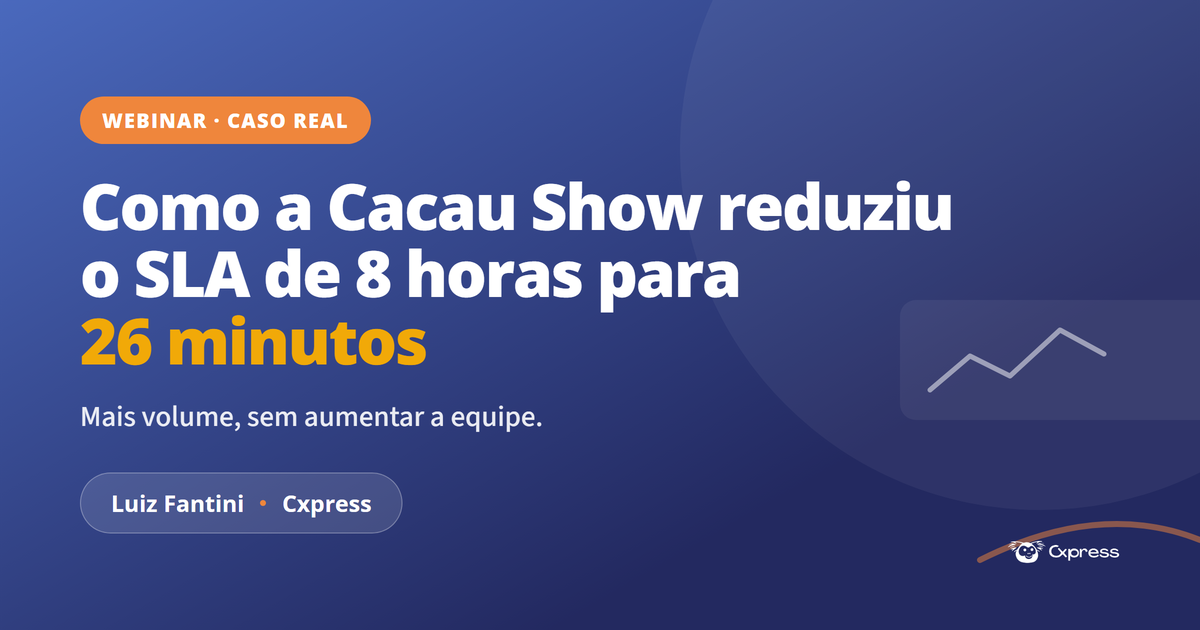
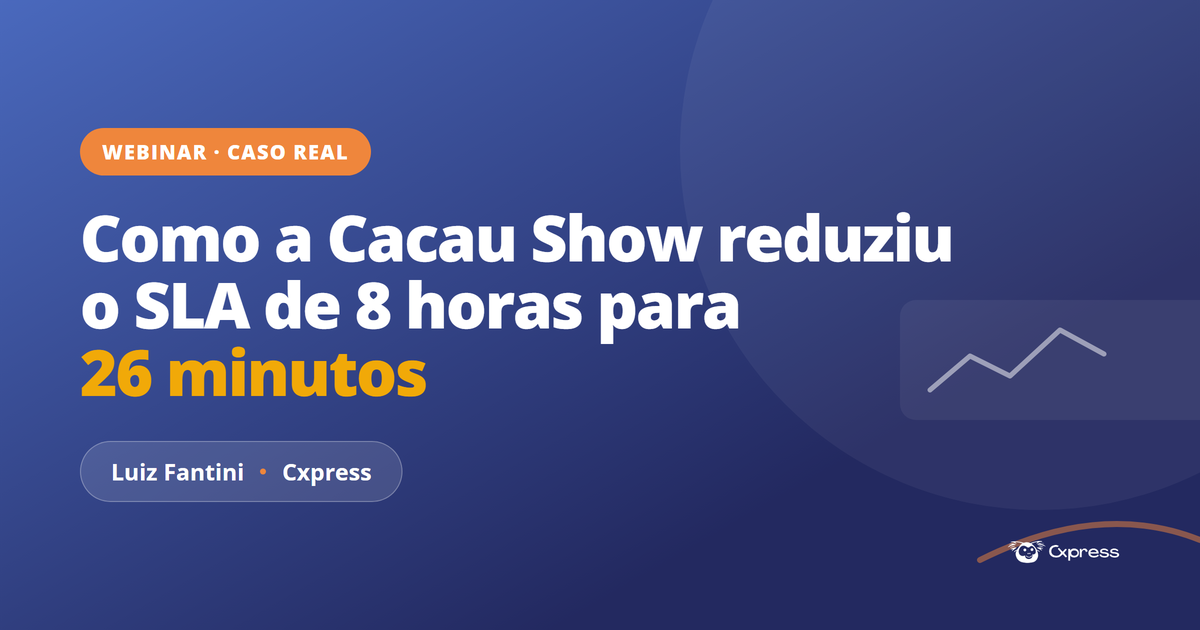
Atualizar copy da LP webinar-concierge-br e adicionar canais (#764)

Changed region(s): [[0.0617, 0.1508, 0.8017, 0.8746]]

diff --git a/landing-pages/cxpress/webinar-concierge-br/index.html b/landing-pages/cxpress/webinar-concierge-br/index.html
@@ -15,7 +15,7 @@ j=d.createElement(s),dl=l!='dataLayer'?'&l='+l:'';j.async=true;j.src=
 
   <link rel="icon" type="image/png" href="../../brand/cxpress/assets/logos/logo-icon.png" />
 
-  <meta name="description" content="Webinar com caso real: como a Cacau Show levou o SLA de 8 horas para 26 minutos com agentes de IA no primeiro contato, sem aumentar a equipe humana.">
+  <meta name="description" content="Webinar com caso real: como a Cacau Show levou o SLA de 8 horas para 26 minutos com agentes de IA no primeiro contato.">
   <meta name="robots" content="index, follow">
   <meta name="author" content="Cxpress">
 
@@ -40,8 +40,8 @@ j=d.createElement(s),dl=l!='dataLayer'?'&l='+l:'';j.async=true;j.src=
     "@context": "https://schema.org",
     "@graph": [
       { "@type": "Organization", "@id": "https://home.cxpress.io#organization", "name": "Cxpress", "url": "https://home.cxpress.io", "logo": "https://{{DOMAIN}}/{{BRAND_LOGO_PNG_PATH}}", "sameAs": ["https://www.linkedin.com/company/cxpress", "https://www.instagram.com/cxpress.io/"] },
-      { "@type": "WebPage", "@id": "https://{{DOMAIN}}/webinar-concierge-br#webpage", "url": "https://{{DOMAIN}}/webinar-concierge-br", "name": "Como reduzimos o SLA de 8 horas para 26 minutos | Webinar Cxpress", "inLanguage": "pt-BR", "isPartOf": { "@id": "https://home.cxpress.io#organization" }, "description": "Webinar com caso real: como a Cacau Show levou o SLA de 8 horas para 26 minutos com agentes de IA no primeiro contato, sem aumentar a equipe humana." },
-      { "@type": "VideoObject", "name": "Como reduzimos o SLA de 8 horas para 26 minutos", "description": "Caso real da Cacau Show: como a operação ganhou escala no atendimento das redes sociais sem aumentar a equipe humana.", "inLanguage": "pt-BR", "url": "https://{{DOMAIN}}/webinar-concierge-br", "publisher": { "@id": "https://home.cxpress.io#organization" } }
+      { "@type": "WebPage", "@id": "https://{{DOMAIN}}/webinar-concierge-br#webpage", "url": "https://{{DOMAIN}}/webinar-concierge-br", "name": "Como reduzimos o SLA de 8 horas para 26 minutos | Webinar Cxpress", "inLanguage": "pt-BR", "isPartOf": { "@id": "https://home.cxpress.io#organization" }, "description": "Webinar com caso real: como a Cacau Show levou o SLA de 8 horas para 26 minutos com agentes de IA no primeiro contato." },
+      { "@type": "VideoObject", "name": "Como reduzimos o SLA de 8 horas para 26 minutos", "description": "Caso real da Cacau Show: como a operação ganhou escala no atendimento das redes sociais.", "inLanguage": "pt-BR", "url": "https://{{DOMAIN}}/webinar-concierge-br", "publisher": { "@id": "https://home.cxpress.io#organization" } }
     ]
   }
   </script>
@@ -316,7 +316,7 @@ height="0" width="0" style="display:none;visibility:hidden"></iframe></noscript>
       <div class="hero__inner">
         <span class="eyebrow">Webinar · Caso real · Cxpress</span>
         <h1>Como a Cacau Show reduziu o SLA de 8 horas para <mark>26&nbsp;minutos</mark></h1>
-        <p class="hero__lead">Veja como a operação ganhou escala no atendimento das redes sociais sem aumentar a equipe humana, com agentes de IA no primeiro contato e as pessoas entrando quando fazem diferença.</p>
+        <p class="hero__lead">Veja como a operação ganhou escala no atendimento das redes sociais.</p>
 
         <!-- VIDEO PLACEHOLDER: substituir o div.vsl-video__ph inteiro pelo embed real (16:9).
              Ex.: <iframe src="https://www.youtube.com/embed/XXXXXXXX" title="Webinar Cxpress" allow="accelerometer; autoplay; clipboard-write; encrypted-media; gyroscope; picture-in-picture" allowfullscreen loading="lazy"></iframe> -->
@@ -327,13 +327,12 @@ height="0" width="0" style="display:none;visibility:hidden"></iframe></noscript>
           </div>
         </div>
 
-        <p class="vsl-byline">Apresentado por <strong>Luiz Fantini</strong>, New Business da Cxpress</p>
+        <p class="vsl-byline">Apresentado por <strong>Luiz Fantini</strong>, Cxpress</p>
 
         <div class="hero__ctas">
           <a class="btn" href="#inscricao">Agendar uma demonstração gratuita
             <svg width="16" height="16" viewBox="0 0 16 16" fill="none" aria-hidden="true"><path d="M3 8h10M9 4l4 4-4 4" stroke="currentColor" stroke-width="1.8" stroke-linecap="round" stroke-linejoin="round"/></svg>
           </a>
-          <span class="hero__note">Mais volume, sem aumentar a equipe.</span>
         </div>
       </div>
     </section>
@@ -359,7 +358,7 @@ height="0" width="0" style="display:none;visibility:hidden"></iframe></noscript>
           <div class="card reveal">
             <div class="card__pill" aria-hidden="true"></div>
             <h3>Onde a operação travava</h3>
-            <p>Por que um volume alto de comentários, uma equipe sobrecarregada e os picos de Páscoa levaram o SLA a 8 horas.</p>
+            <p>Como um volume alto de comentários, uma equipe sobrecarregada e os picos de Páscoa levaram o SLA a 8 horas.</p>
           </div>
           <div class="card reveal">
             <div class="card__pill" aria-hidden="true"></div>
@@ -369,7 +368,7 @@ height="0" width="0" style="display:none;visibility:hidden"></iframe></noscript>
           <div class="card reveal">
             <div class="card__pill" aria-hidden="true"></div>
             <h3>Onde a Cxpress entra</h3>
-            <p>Como canais, agentes de IA, atendimento humano e gestão em tempo real passam a funcionar no mesmo painel.</p>
+            <p>Como canais de atendimento, agentes de IA e gestão em tempo real passam a funcionar no mesmo painel.</p>
           </div>
         </div>
       </div>
@@ -403,7 +402,6 @@ height="0" width="0" style="display:none;visibility:hidden"></iframe></noscript>
             <p>Dúvidas de clientes sem retorno, dificuldade em manter o tom de voz e tempo de resposta alto nos momentos críticos.</p>
           </div>
         </div>
-        <p class="sec-fecho reveal">O gargalo não estava na velocidade das pessoas. Estava no caminho que cada conversa fazia dentro da operação.</p>
       </div>
     </section>
 
@@ -436,6 +434,9 @@ height="0" width="0" style="display:none;visibility:hidden"></iframe></noscript>
                 <span class="canal">Instagram</span>
                 <span class="canal">E-mail</span>
                 <span class="canal">Telefone</span>
+                <span class="canal">Google My Business</span>
+                <span class="canal">Facebook</span>
+                <span class="canal">TikTok</span>
               </div>
             </div>
           </div>
@@ -456,7 +457,6 @@ height="0" width="0" style="display:none;visibility:hidden"></iframe></noscript>
           <div class="stat reveal"><span class="stat__n">163 mil+</span><span class="stat__l">Respostas para mais de 223 mil comentários</span></div>
           <div class="stat reveal"><span class="stat__n">4 canais</span><span class="stat__l">Na operação: Facebook, Instagram, Google e TikTok</span></div>
         </div>
-        <p class="sec-fecho reveal">A Cacau Show saiu de uma operação reativa para uma gestão mais ágil, centralizada e controlada.</p>
       </div>
     </section>
 
@@ -469,10 +469,6 @@ height="0" width="0" style="display:none;visibility:hidden"></iframe></noscript>
             <h2>Agende uma demonstração gratuita da Cxpress</h2>
             <p class="agendar__kicker">Canais, agentes de IA e gestão em tempo real</p>
             <p class="agendar__sub">Se o volume de atendimento dobrasse amanhã, o seu SLA continuaria sob controle? Deixe seus dados e a nossa equipe entra em contato para mostrar como aplicar esse modelo na sua operação.</p>
-            <p class="requisito">
-              <svg width="16" height="16" viewBox="0 0 15 15" fill="none" aria-hidden="true"><path d="M2.5 7.7l3.2 3.2L12.5 4" stroke="currentColor" stroke-width="1.6" stroke-linecap="round" stroke-linejoin="round"/></svg>
-              Mais volume, sem aumentar a equipe.
-            </p>
           </div>
 
           <!-- FORM PLACEHOLDER: substituir este form mock pelo embed real (Jotform/RD Station) via /lp-integrar-form.

diff --git a/landing-pages/cxpress/webinar-concierge-br/assets/og-template.html b/landing-pages/cxpress/webinar-concierge-br/assets/og-template.html
@@ -38,7 +38,6 @@
   <div class="content">
     <span class="badge">Webinar · Caso real</span>
     <div class="title">Como a Cacau Show reduziu o SLA de 8 horas para <mark>26&nbsp;minutos</mark></div>
-    <div class="sub">Mais volume, sem aumentar a equipe.</div>
     <div class="pill">Luiz Fantini <span class="sep"></span> Cxpress</div>
   </div>
   <img class="logo" src="../../../../brand/cxpress/assets/logos/logo-reversed.png" alt="Cxpress">
